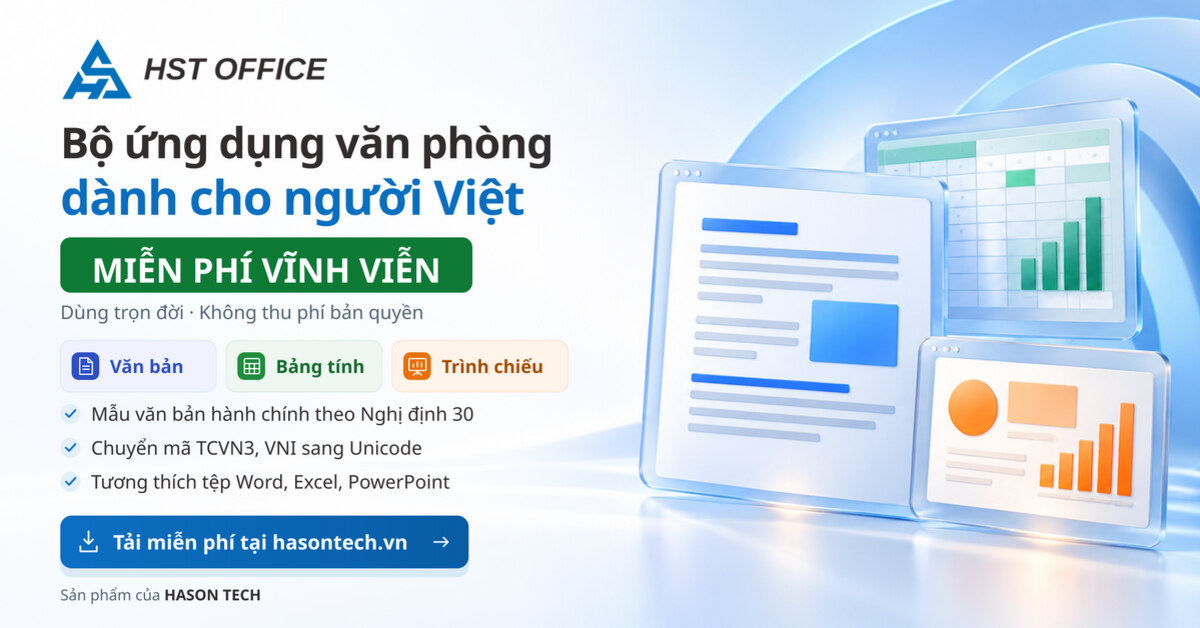
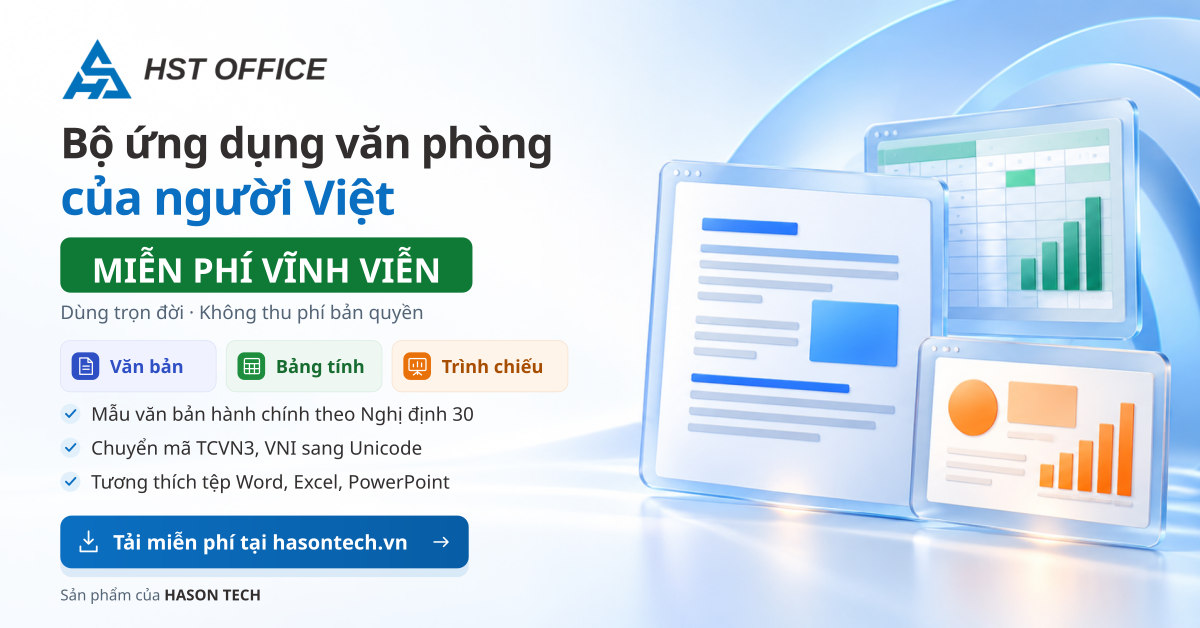
fix(website): homepage share image says "của người Việt"

diff --git a/website/office.hasontech.vn/index.html b/website/office.hasontech.vn/index.html
@@ -33,14 +33,14 @@
   <meta property="og:title" content="HST Office – Bộ Office miễn phí vĩnh viễn cho người Việt">
   <meta property="og:description" content="Soạn thảo văn bản, bảng tính, trình chiếu bằng tiếng Việt. Mở, lưu tài liệu văn bản (.doc, .docx), bảng tính (.xls, .xlsx), trình chiếu (.ppt, .pptx); dùng offline, không cần đăng ký. Sản phẩm của HASON TECH.">
   <meta property="og:url" content="https://office.hasontech.vn/">
-  <meta property="og:image" content="https://office.hasontech.vn/assets/img/og-hst-office.jpg?v=2">
+  <meta property="og:image" content="https://office.hasontech.vn/assets/img/og-hst-office.jpg?v=3">
   <meta property="og:image:width" content="1200">
   <meta property="og:image:height" content="628">
   <meta property="og:image:alt" content="HST Office — bộ ứng dụng văn phòng của người Việt, miễn phí vĩnh viễn">
   <meta name="twitter:card" content="summary_large_image">
   <meta name="twitter:title" content="HST Office – Bộ Office miễn phí vĩnh viễn cho người Việt">
   <meta name="twitter:description" content="Soạn thảo văn bản, bảng tính, trình chiếu bằng tiếng Việt. Mở, lưu tài liệu văn bản (.doc, .docx), bảng tính (.xls, .xlsx), trình chiếu (.ppt, .pptx); dùng offline, không cần đăng ký. Sản phẩm của HASON TECH.">
-  <meta name="twitter:image" content="https://office.hasontech.vn/assets/img/og-hst-office.jpg?v=2">
+  <meta name="twitter:image" content="https://office.hasontech.vn/assets/img/og-hst-office.jpg?v=3">
   <meta name="twitter:image:alt" content="HST Office — bộ ứng dụng văn phòng miễn phí vĩnh viễn">
   <link rel="icon" href="/assets/img/favicon.svg?v=1" type="image/svg+xml">
   <link rel="icon" href="/assets/img/favicon-32.png?v=1" type="image/png" sizes="32x32">
